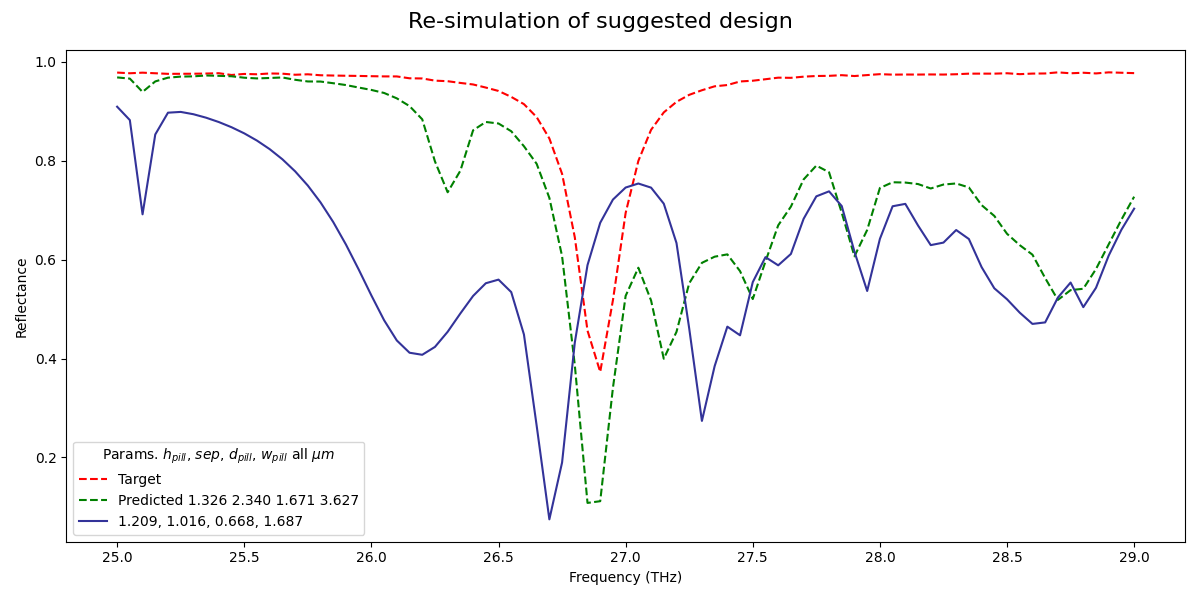
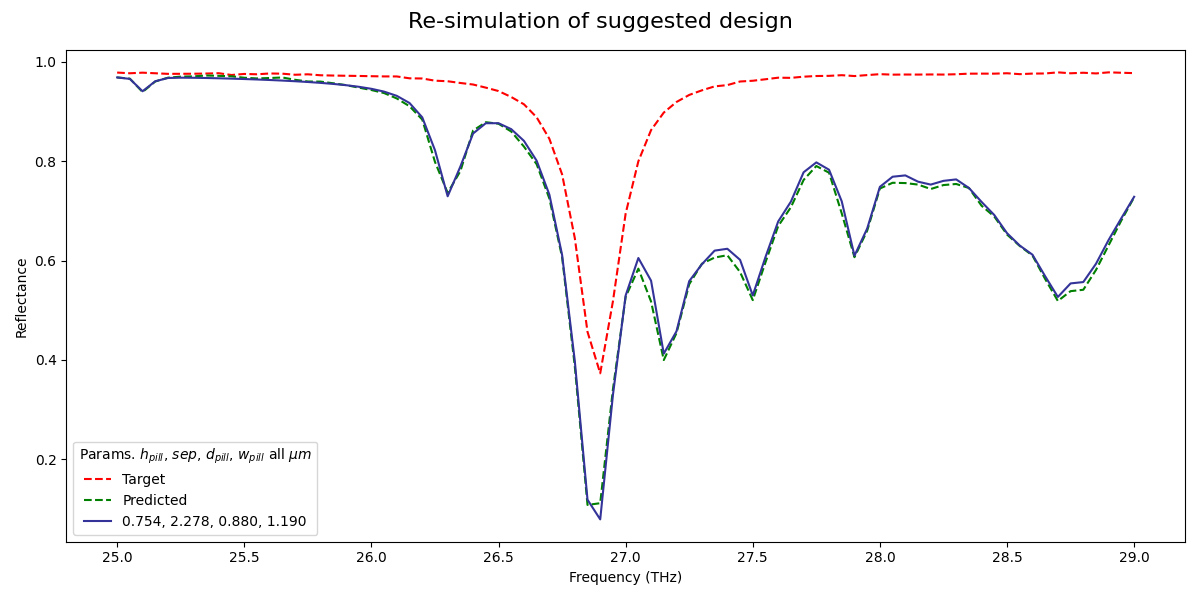
wrapped my head around the plots...

diff --git a/full_model_test.py b/full_model_test.py
@@ -15,25 +15,12 @@ from utils.config import TrainingConfig
 from generated_spectra_test import reconstruct_and_evaluate
 
 
-def reconstruct_evaluate_spectrum(tandem_model, loss_function, wavelengths, spectrum_test, title_str, scaler = None, output_path = "res.png"):
-    
-    def get_geo_str(geo):
-        if scaler != None:
-            geo_transformed = scaler.inverse_transform(geo.reshape(1, -1))[0]
-            return " ".join([f"{i:.3f}" for i in geo_transformed])
-        else: return ""
+def reconstruct_evaluate_spectrum(tandem_model, loss_function, wavelengths, spectrum_test, scaler, title_str, output_path = "res.png"):
+
     
     # reconstruct and evaluate spectra
     metrics, reconstructed_numpy, predicted_geo_numpy = reconstruct_and_evaluate(tandem_model, [spectrum_test], wavelengths)
-
-    designs_predict_physical = None
-    if scaler != None:
-        predicted_geo_numpy = scaler.inverse_transform(predicted_geo_numpy)
-        designs_predict_physical = predicted_geo_numpy
-        sep = np.expand_dims(designs_predict_physical[:,3] - np.maximum(designs_predict_physical[:,1], designs_predict_physical[:,2]), axis=1)
-        designs_predict_physical = np.hstack((np.expand_dims(designs_predict_physical[:,0], axis=1), sep, designs_predict_physical[:,[1,2,3]]))
     
-    print(predicted_geo_numpy, "- scaled" if scaler else "")    
     print(metrics, predicted_geo_numpy)
 
     y_pred = reconstructed_numpy
@@ -50,10 +37,12 @@ def reconstruct_evaluate_spectrum(tandem_model, loss_function, wavelengths, spec
     y_true_np = y_true.detach().numpy().flatten()
     y_pred_np = y_pred.detach().numpy().flatten()
 
+    predicted_geo_numpy = scaler.inverse_transform(predicted_geo_numpy)
 
     fig, ax = plt.subplots(1,1, figsize=(12, 6))
     ax.plot(wavelengths, y_true_np, label = f"Target", linestyle='--', color='red')
-    pred_geo_str = get_geo_str(predicted_geo_numpy)
+    # pred_geo_str = get_geo_str(predicted_geo_numpy)
+    pred_geo_str = " ".join([f"{i:.3f}" for i in predicted_geo_numpy[0]])
     ax.plot(wavelengths, y_pred_np, label = f"Predicted {pred_geo_str}")
     
     ax.legend(title="Params. $h_{pill}$, $sep$, $d_{pill}$, $w_{pill}$ all $\mu m$")
@@ -75,16 +64,17 @@ def test_tandem_model(test_type: str, use_mse=False):
     training_config = TrainingConfig("mlp", "params.env")
     # training_config.print()
 
+    tests_folder = ""
 
     if test_type == "t":
         print("Testing augmented test samples")
         test_aug = True
-        tests_folder = "tandem_tests/v3_ls_04_4layers/test_peaks/"
+        # tests_folder = "tandem_tests/v3_ls_04_4layers/test_peaks/"
         title_str = "Prediction of test dataset sample"
     elif test_type == "g":
         print("Testing generated samples")
         test_aug = False
-        tests_folder = "tandem_tests/v3_ls_04_4layers/generated_peaks/"
+        # tests_folder = "tandem_tests/v3_ls_04_4layers/generated_peaks/"
         title_str = "Prediction of generated sample"
     else:
         raise ValueError("test_type must be t or g")
@@ -95,13 +85,13 @@ def test_tandem_model(test_type: str, use_mse=False):
         forward_model_path = "__models/official/version_mse/mlp_mse_20.pth"
         tandem_model_path = "__models/official/version_mse/tandem_cnn_mse_20.pth"
         title_str = title_str + " (MSE Loss)"
-        tests_folder = os.path.join(tests_folder, "mse/")
+        # tests_folder = os.path.join(tests_folder, "mse/")
     else:
         print("using PIL loss")
         forward_model_path = "__models/official/version001/mlp_v3_ls_04_4layers_80.pth"
         tandem_model_path = "__models/official/version001/tandem_cnn_v3_ls_04_4layers_50.pth"
         title_str = title_str + " (Physics-Informed Loss)"
-        tests_folder = os.path.join(tests_folder, "pil/")
+        # tests_folder = os.path.join(tests_folder, "pil/")
 
     print(title_str)
     print(tests_folder)
@@ -155,7 +145,7 @@ def test_tandem_model(test_type: str, use_mse=False):
     tandem_model.eval()
     
 
-    os.makedirs(tests_folder, exist_ok=True)
+    # os.makedirs(tests_folder, exist_ok=True)
     if test_aug:
         # instead of generating spectrum, use an augmented test sample
         rng = np.random.default_rng()
@@ -164,7 +154,7 @@ def test_tandem_model(test_type: str, use_mse=False):
         bounds = compute_peak_bounds(test_spectrum.numpy().squeeze(), 3)
         aug_signal = apply_smooth_flattening(test_spectrum.numpy().squeeze(), bounds)
         out_file = os.path.join(tests_folder, "res_augmented_sample.png")
-        reconstruct_evaluate_spectrum(tandem_model, loss_function, wavelengths, aug_signal, title_str=title_str, output_path = out_file)
+        reconstruct_evaluate_spectrum(tandem_model, loss_function, wavelengths, aug_signal, scaler=scaler_geo_tandem, title_str=title_str, output_path = out_file)
 
     else:
         # generate a spectrum
@@ -179,7 +169,7 @@ def test_tandem_model(test_type: str, use_mse=False):
 
         # i don't know the 'true' geometries because the spectrum is arbitrarily generated
         # geometries are already rescaled
-        predicted_geo_numpy, y_pred, y_true, _ = reconstruct_evaluate_spectrum(tandem_model, loss_function, wavelengths, spectrum_test, title_str=title_str, scaler=scaler_geo_tandem, output_path = os.path.join(tests_folder, f"res_generated.png"))
+        predicted_geo_numpy, y_pred, y_true, _ = reconstruct_evaluate_spectrum(tandem_model, loss_function, wavelengths, spectrum_test, scaler=scaler_geo_tandem, title_str=title_str, output_path = os.path.join(tests_folder, f"res_generated.png"))
 
         print("test geometries")
         designs_predict_physical = predicted_geo_numpy
@@ -189,13 +179,13 @@ def test_tandem_model(test_type: str, use_mse=False):
         # print(designs_predict_physical)
         # print()
 
-        np.savetxt(os.path.join(tests_folder, 'geo_params.csv'), designs_predict_physical[:, :4][0][np.newaxis, :], delimiter=',', header='h_pill, sep, d_pill, w_pill', comments='') # used for re simulation
+        # np.savetxt(os.path.join(tests_folder, 'geo_params.csv'), designs_predict_physical[:, :4][0][np.newaxis, :], delimiter=',', header='h_pill, sep, d_pill, w_pill', comments='') # used for re simulation
 
-        print("saving related reonstructed spectra")
-        np.savetxt(os.path.join(tests_folder, 'pred_spectra.csv'), y_pred[:, :81][0][np.newaxis, :], delimiter=',')
+        # print("saving related reonstructed spectra")
+        # np.savetxt(os.path.join(tests_folder, 'pred_spectra.csv'), y_pred[:, :81][0][np.newaxis, :], delimiter=',')
 
-        print("saving test spectra and geometries samples")
-        np.savetxt(os.path.join(tests_folder, 'test_spectra.csv'), y_true[:, :81][0][np.newaxis, :], delimiter=',')
+        # print("saving test spectra and geometries samples")
+        # np.savetxt(os.path.join(tests_folder, 'test_spectra.csv'), y_true[:, :81][0][np.newaxis, :], delimiter=',')
 
     print("Done")
 

diff --git a/resim.py b/resim.py
@@ -3,7 +3,7 @@ import pandas as pd
 import matplotlib.pyplot as plt
 
 from utils.helper import plot_comsol, read_comsol_csv
-from utils.dataloader import load_reflection_spectra_data
+# from utils.dataloader import load_reflection_spectra_data
 
 
 def get_spectra_from_comsol_file(file_path, columns, n_spectra=9):
@@ -29,14 +29,14 @@ test_resimulated = {
     "resimulated_spectra": "__resimulations/2026_02_10__Alessandro_resim.csv",
     "target_spectra": "__models/official/version001/generated/test_spectra_001_v3_04_80.csv",
     "predicted_spectra": "__models/official/version001/generated/pred_spectra_001_v3_04_80_test.csv",
-    "predicted_geometries": "__models/official/version001/generated/geo_params_001_v3_04_80_test.csv"
+    # "predicted_geometries": "__models/official/version001/generated/geo_params_001_v3_04_80_test.csv"
 }
 
 generated_resimulated = {
-    "resimulated_spectra": "__resimulations/2026_02_10__Alessandro_resim.csv",
+    "resimulated_spectra": "__resimulations/2026_02_12__Alessandro_resim_custom_peaks.csv",
     "target_spectra": "__models/official/version001/generated_custompeaks/test_spectra_001_v3_04_80_custompeaks.csv",
     "predicted_spectra": "__models/official/version001/generated_custompeaks/pred_spectra_001_v3_04_80_custompeaks.csv",
-    "predicted_geometries": "__models/official/version001/generated_custompeaks/geo_params_001_v3_04_80_custompeaks.csv"
+    # "predicted_geometries": "__models/official/version001/generated_custompeaks/geo_params_001_v3_04_80_custompeaks.csv"
 }
 
 
@@ -52,11 +52,7 @@ def plot_resimulated_spectrum(source: str, spectrum_index: int, out_file = "resi
     else:
         raise ValueError("source must be g,t")
     
-    _, _, _, _, wavelength, scaler_geo = load_reflection_spectra_data("__data/pisa_data_2025_12_02.h5")
-
-    def get_geo_str(geo):
-        geo_transformed = scaler_geo.inverse_transform(geo.reshape(1, -1))[0]
-        return " ".join([f"{i:.3f}" for i in geo_transformed])
+    # _, _, _, _, wavelength, scaler_geo = load_reflection_spectra_data("__data/pisa_data_2025_12_02.h5")
 
     columns = ['h_pill (um)', 'sep (um)', 'd_pill (um)', 'w_pill (um)', 'freq (THz)', 'Reflectance (1)']
     resimulated_spectra = get_spectra_from_comsol_file(params["resimulated_spectra"], columns, n_spectra=9)
@@ -70,25 +66,27 @@ def plot_resimulated_spectrum(source: str, spectrum_index: int, out_file = "resi
 
     # get predicted geometries
     #   this is the file sent for the resimulation, so it has the header
-    df_geo_pred = pd.read_csv(params["predicted_geometries"])
+    # df_geo_pred = pd.read_csv(params["predicted_geometries"])
 
     fig, ax = plt.subplots(1, 1, figsize=(12, 6), sharey=True)
     
     target_np = df_target.to_numpy() # target spectra
     pred_np = df_pred.to_numpy() # predicted spectra
-    geo_pred_np = df_geo_pred.to_numpy() # predicted geometries
+    # geo_pred_np = df_geo_pred.to_numpy() # predicted geometries
+
+    # resim spectrum
+    df_spectrum = pd.DataFrame(resimulated_spectra[spectrum_index], columns=columns)
+    wavelength = df_spectrum.get(df_spectrum.columns[4])
 
     target = target_np[spectrum_index]
     pred = pred_np[spectrum_index]
-    pred_geo = geo_pred_np[spectrum_index]
+    # pred_geo = geo_pred_np[spectrum_index]
 
     ax.plot(wavelength, target, label = f"Target", linestyle='--', color='red')
 
-    pred_geo_str = get_geo_str(pred_geo)
-    ax.plot(wavelength, pred, label = f"Predicted {pred_geo_str}", linestyle='--', color='green')
+    ax.plot(wavelength, pred, label = f"Predicted", linestyle='--', color='green')
 
     # plot resimulated spectrum
-    df_spectrum = pd.DataFrame(resimulated_spectra[spectrum_index], columns=columns)
     plot_comsol(
         df_spectrum,
         ax,
